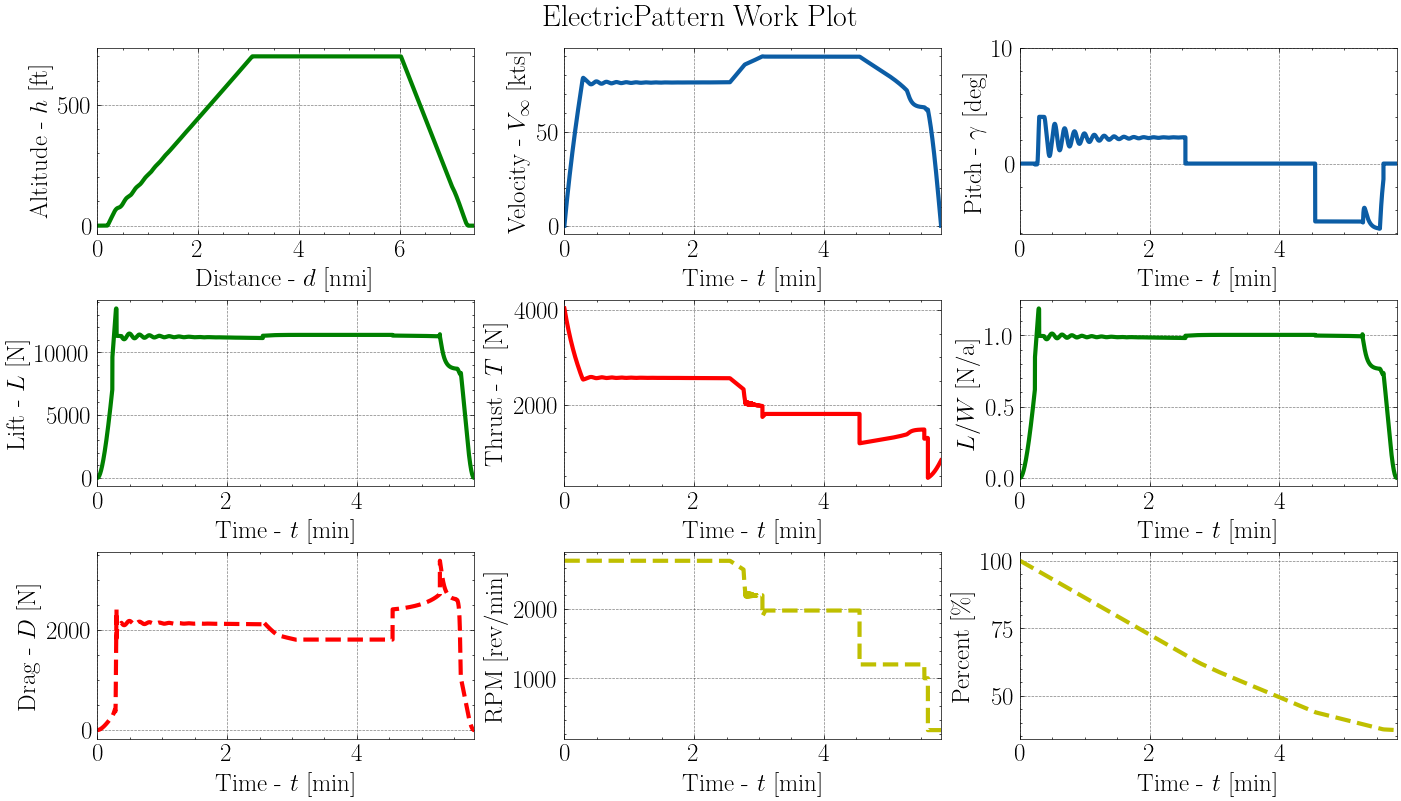
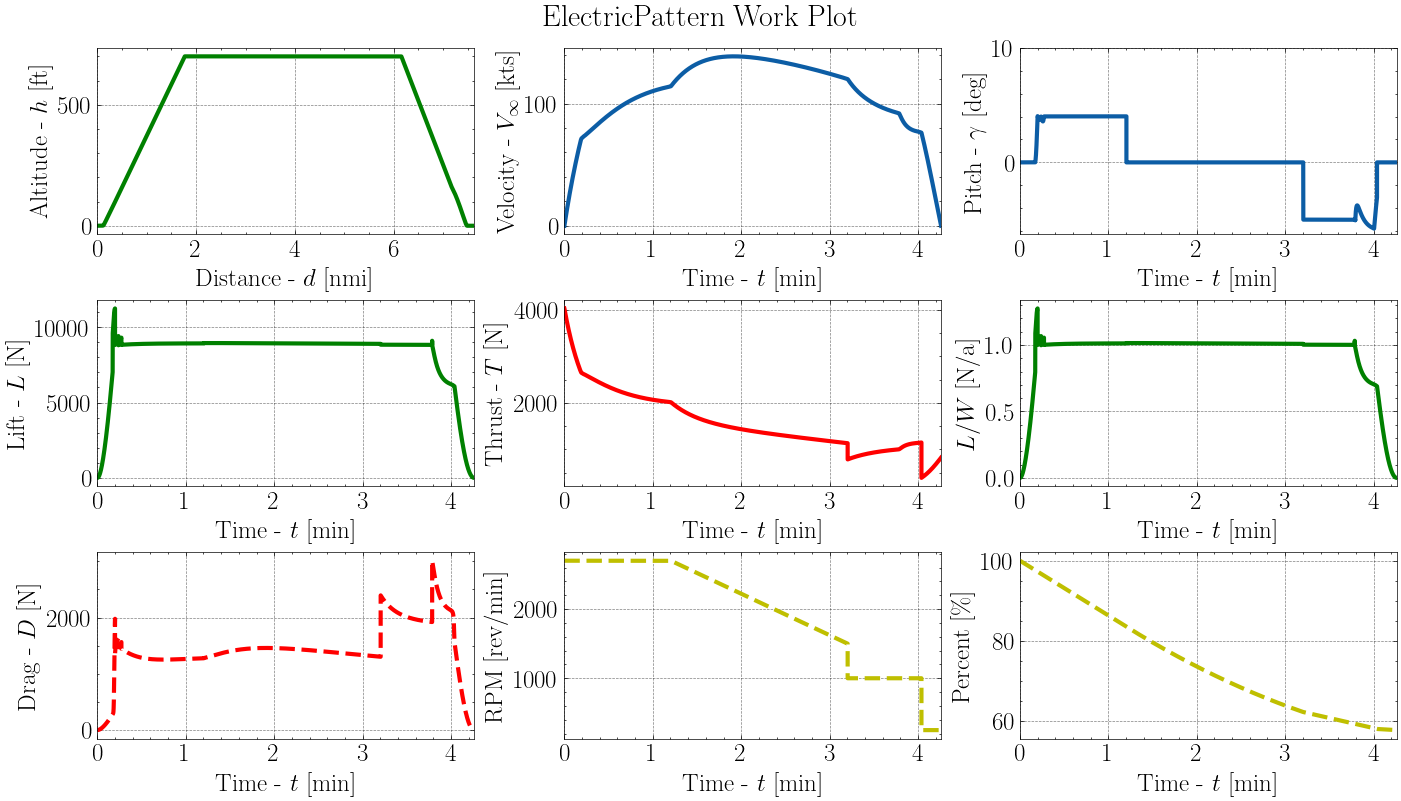
Adding infrastructure for Weight and Balance

diff --git a/Aircraft_Dictionaries/PA_28_181.py b/Aircraft_Dictionaries/PA_28_181.py
@@ -59,7 +59,12 @@ PA_28_181_Performance_dict = dict({
 PA_28_181_Mass_dict = dict({
     "MGTOW" : [2550., "lbf"],
     "MaxFuel" : [48*6., "lbf"],
-    "EmptyMass" : [1600, "lbf"]
+    "EmptyMass" : [1600, "lbf"],
+    "EmptyMass_Arm" : [87.5, "in"],
+    "FrontSeat_Arm" : [80.5, "in"],
+    "RearSeat_Arm" : [118.1, "in"],
+    "Fuel_Arm" : [95, "in"],
+    "Baggage_Arm" : [142.8, "in"]
 })
 
 PA_28_181_VSpeed_dict = dict({
@@ -79,48 +84,3 @@ PA_28_181_Dict = dict({
     "VSpeed" : PA_28_181_VSpeed_dict,
     "Mass" : PA_28_181_Mass_dict
 })
-
-
-#Basic parameters
-Length = 24.0 #ft
-height = 7 +(1/3) #ft
-
-
-
-
-#L_Engine = 3.69230769 #ft
-#W_Engine = W_fus
-
-#H_Stab Data
-
-#H_Stab_Span = 11 + (21/24) #ft
-#H_Stab_chord_max =
-#H_Stab_chord_min =
-
-
-
-#c_bar_h  = c_root_h * (2/3)*(1 + taper_h + taper_h**2)/(1+taper_h) #ft 
-
-
-#V_Stab Data
-
-#V_Stab_height =
-#V_stab_width =
-
- 
-
-
-
-#L_gear data use page 423 for drag calculations
-L_gear_flatplate = 1.161678
-
-#Propeller data use thrust calculations
-#Data received from https://www.sensenich.com/wp-content/uploads/2019/10/P4EA_R13-1.pdf
-#Model: Sensenich 76EM8S14-0-62
-
-Prop_dia = 6 + (1/3) #ft
-Prop_thickness = (7/24) #ft
-Prop_pitch = 5 + (1/6) #ft at 0.75 of the length from the center to the tip I recomend this site for the calculation in case data is inaccurate (https://vansairforce.net/threads/calculating-propeller-pitch.202266/)
-
-Prop_hub_dia = 0.5 #ft
-Prop_hub_thickness = 0.25 #ft

diff --git a/PiperArcherIII_Blueprint.py b/PiperArcherIII_Blueprint.py
@@ -10,7 +10,21 @@ ArcherFuselage = Fuselage(AircraftName, PiperArcherIII_Dict)
 # ArcherLandingGear = LandingGear()
 ArcherPropeller = Propeller("Sensenich", "76EM8S14-0-62", 76, 76/8)
 ArcherEngine = PistonEngine(AircraftName, ArcherPropeller)
-ArcherMass = Mass(PiperArcherIII_Dict)
+
+
+from scipy import constants
+Pilot_Mass = 150*constants.lb
+Rear_Mass = 15*constants.lb
+Baggage = 25*constants.lb
+
+
+
+
+
+
+
+
+ArcherMass = Mass(PiperArcherIII_Dict, Pilot_Mass, Rear_Mass, Baggage, Tabs=False)
 ArcherAircraft = Aircraft(AircraftName, PiperArcherIII_Dict, 
                           Wings = ArcherWings, 
                           HorizontalStabilizer = ArcherHorizontalStabilizer, 
@@ -18,6 +32,14 @@ ArcherAircraft = Aircraft(AircraftName, PiperArcherIII_Dict,
                           VerticalStabilizer = ArcherVerticalStabilizer, 
                           Engine = ArcherEngine,
                           Mass = ArcherMass)
+
+
+AircraftName = "Electric " + AircraftName
+EmptyFactor = 0.94
+PiperArcherIII_Dict["Mass"]["EmptyMass"] *= EmptyFactor
+ArcherMass = Mass(PiperArcherIII_Dict, Pilot_Mass, Rear_Mass, Baggage, Tabs=False)
+
+
 
 ElectricArcherEngine = ElectricEngineTest(AircraftName, ArcherPropeller)
 ElectricArcherAircraft = Aircraft(AircraftName, PiperArcherIII_Dict, 

diff --git a/Sizing_And_Geometry/Weight_and_Balance.py b/Sizing_And_Geometry/Weight_and_Balance.py
@@ -1,18 +1,24 @@
 from Aviation import Aviation
+import numpy as np
 
 class Mass(Aviation):
-    def __init__(self, AircraftDict, MaxMass = 1e10, MaxFuelMass = 1e10) -> None:
+    def __init__(self, AircraftDict, FrontSeatMass, RearSeatMass = 0, BaggageMass = 0, Tabs = False) -> None:
         self.Dictionary_setattr(AircraftDict["Mass"])
-        if MaxMass >= self.MGTOW:
-            self.MaxMass = self.MGTOW
-        elif MaxMass < self.EmptyMass:
-            self.MaxMass = self.EmptyMass
+        self.FrontSeatMass = FrontSeatMass
+        self.RearSeatMass = RearSeatMass
+        self.BaggageMass = BaggageMass
+        if Tabs:
+            self.MaxFuelMass = self.MaxFuel*2/3
         else:
-            self.MaxMass = MaxMass
-        if MaxFuelMass > self.MaxFuel:
             self.MaxFuelMass = self.MaxFuel
-        else:
-            self.MaxFuelMass = MaxFuelMass
+            
+        Masses = np.array([self.EmptyMass, FrontSeatMass, RearSeatMass, BaggageMass, self.MaxFuelMass])
+        Arms = np.array([self.EmptyMass_Arm, self.FrontSeat_Arm, self.RearSeat_Arm, self.Baggage_Arm, self.Fuel_Arm])        
+
+        self.MaxMass = sum(Masses)
+
+        self.CG = sum(Masses*Arms)/sum(Masses)
+
         self.Altitude = 0
         self.Atmosphere_attr()  
         self.reset()

diff --git a/AircraftDictionaries.py b/AircraftDictionaries.py
@@ -1,6 +1,7 @@
 #AircraftDictionaries
 import os
 import numpy as np
+import scipy as sp
 def Dict2SI(ACDict):
     for key in ACDict:
         if key == "Name":
@@ -17,6 +18,8 @@ def Dict2SI(ACDict):
                             SubDictionary[subkey] *= 0.3048
                     elif UnitType == 'invdeg':
                         SubDictionary[subkey] = SubDictionary[subkey][0]*180/np.pi
+                    elif UnitType == 'in':
+                        SubDictionary[subkey] = SubDictionary[subkey][0]*sp.constants.inch
                     elif UnitType == 'lbf':
                         SubDictionary[subkey] = SubDictionary[subkey][0] * 0.45359237
                     elif UnitType == "deg" or UnitType == "m" or UnitType == "m2" or UnitType == "N" or UnitType == "rad" or UnitType == "kg" or UnitType == "W" or UnitType=="None":

diff --git a/Control/Control.py b/Control/Control.py
@@ -22,8 +22,8 @@ class Control(Aviation):
             RPM_des_Cruise = 2306 # Found using quasi - cruise
             RPM_des_Descent = 1600
         elif self.Aircraft_Type == "Electric":
-            RPM_des_Cruise = 1900 # Found using quasi - cruise
-            RPM_des_Descent = 1200
+            RPM_des_Cruise = 1500 # Found using quasi - cruise
+            RPM_des_Descent = 1000
         else:
             raise Exception("Missing an Aircraft Type...")
         
@@ -57,7 +57,7 @@ class Control(Aviation):
         self.Phase_Change.append(self.Climb.Time_List[-1])
 
         self.Descent.Approach_Descent(tmax=1.2*60.)
-        Descent_Plot(self.Descent)
+        # Descent_Plot(self.Descent)
         self.Descent.Time_List += self.Cruise.Time_List[-1]
         self.Phase_Change.append(self.Cruise.Time_List[-1])
 

diff --git a/Control/MissionPhase/Landing.py b/Control/MissionPhase/Landing.py
@@ -66,7 +66,7 @@ class Landing(Take_Off):
         #     raise Exception("Simulation did not run long enough to stop. Ajust and increase the time length so that the Aircraft can reach 0 speed.")
         
         self.Aircraft.Position = np.array([self.Position_x[-1], self.Position_y[-1], self.Position_z[-1]])
-        print("Ground Rolls is: {} with a dt of {}".format((self.Position_x[-1]-self.Position[0])*self.m_to_ft, delta_t))
+        print("Ground Rolls is: {} ft with a dt of {}".format(round((self.Position_x[-1]-self.Position[0])*self.m_to_ft), delta_t))
 
 
     def Condition(self):

diff --git a/Control/MissionPhase/Descent.py b/Control/MissionPhase/Descent.py
@@ -61,7 +61,7 @@ class Descent(Climb):
         self.Percent_List = self.Percent_List
         self.Altitude_List = self.Altitude_List
         
-        print("Time elapsed during descent: {} min".format(self.Time_List[-1]/60))
+        print("Time elapsed during descent: {} min".format(round(self.Time_List[-1]/60, 3)))
         if not np.any(z < Ground_Altitude):
             from Plotting.Plotting import Descent_Plot
             Descent_Plot(self, title = "Descent Failed")

diff --git a/main.py b/main.py
@@ -44,12 +44,13 @@ from PiperArcherIII_Blueprint import ArcherEngine
 
 
 
-ControlArcher = Control(ElectricArcherAircraft)
+ControlArcher = Control(ArcherAircraft)
 ControlArcher.Pattern_Cycle()
 V = ControlArcher.Velocity_Arr
 T = ControlArcher.Time_Arr
+print(round(ArcherAircraft.BatteryRatio*100, 2))
+
 Pattern_Plot(ControlArcher)
-print(round(ElectricArcherAircraft.BatteryRatio*100, 2))
 
 exit()
 
